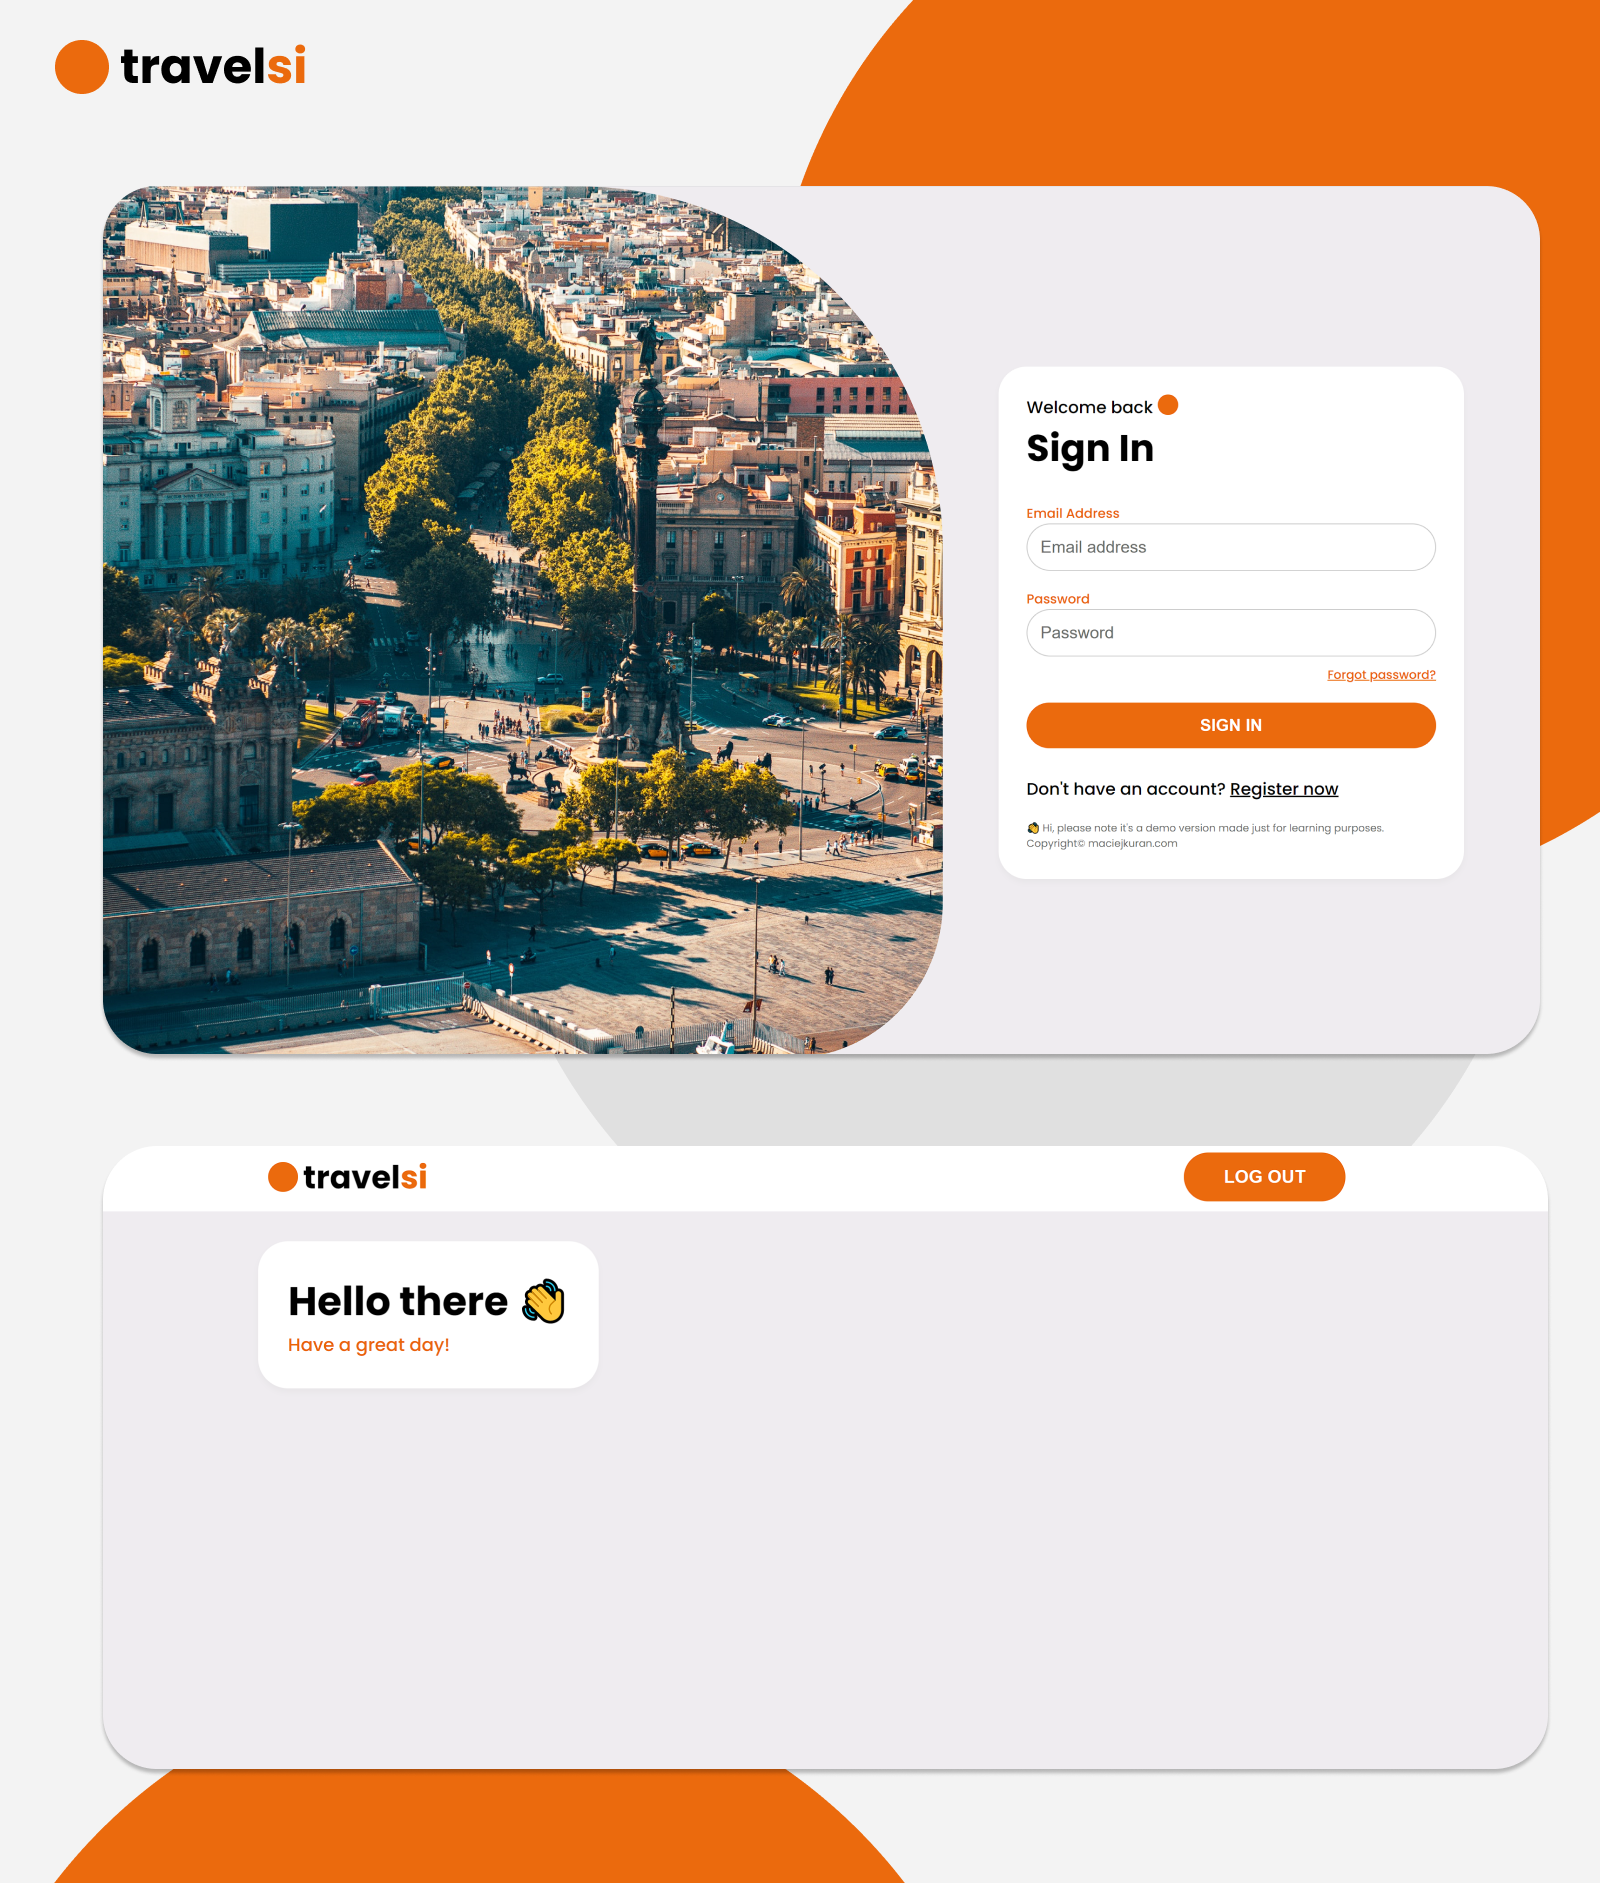
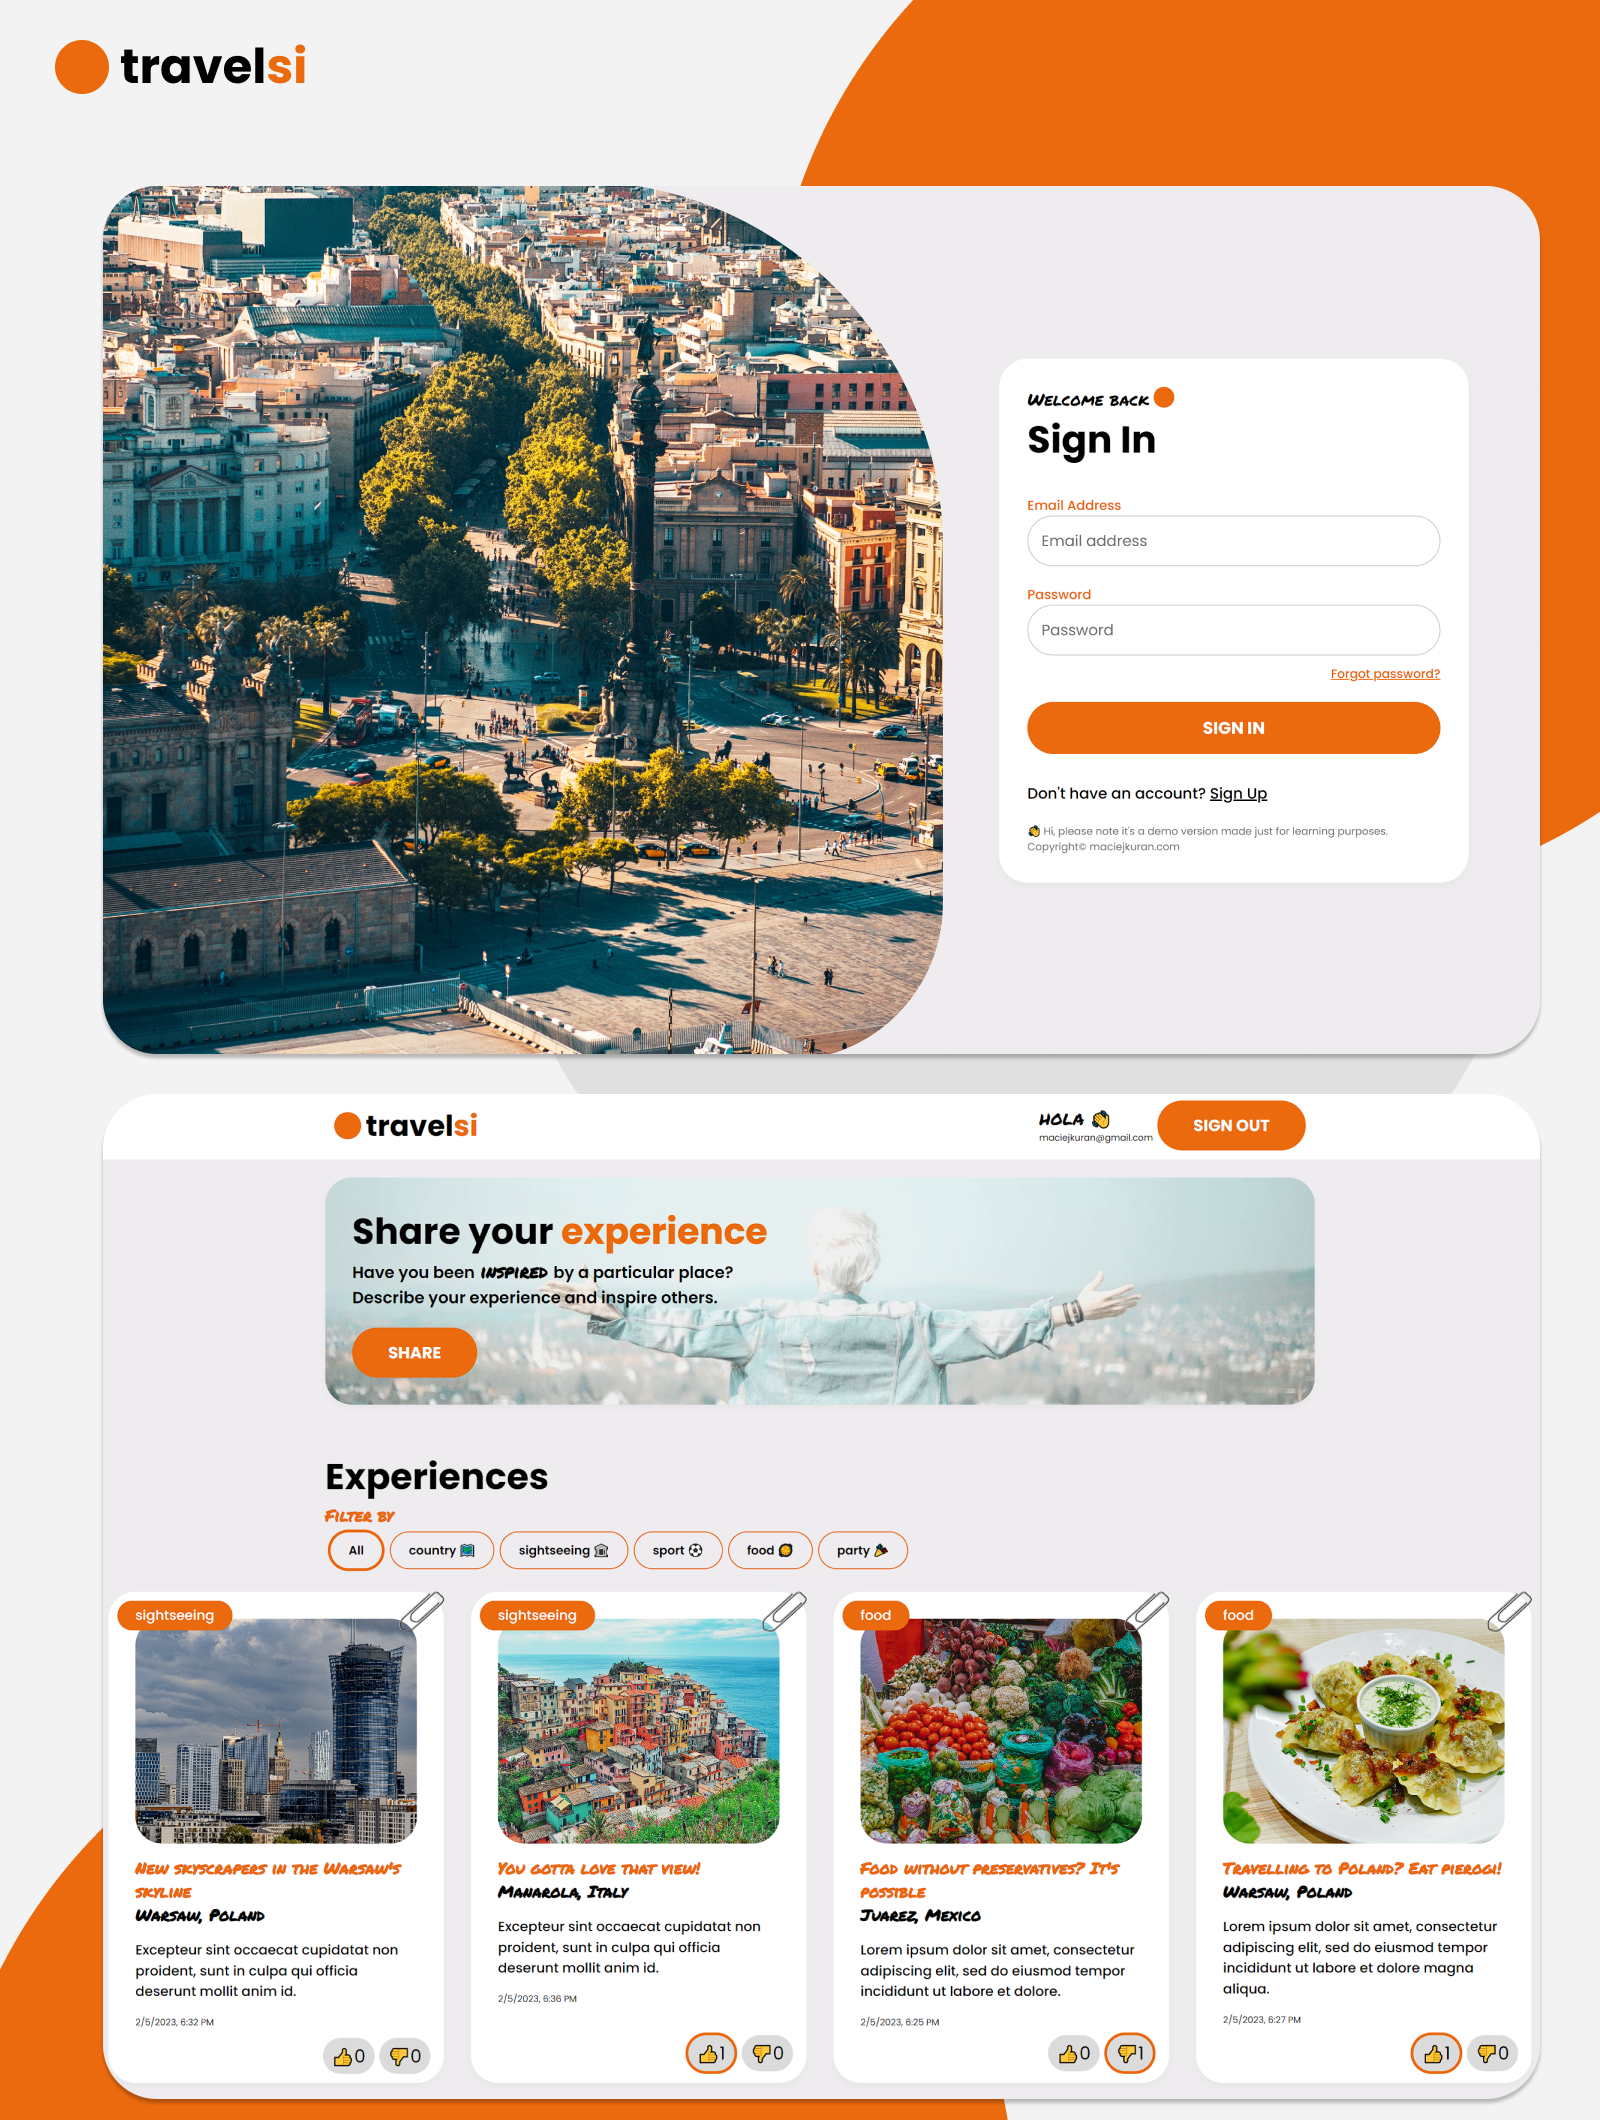
commit

diff --git a/README.md b/README.md
@@ -1,25 +1,56 @@
-# travelsi (react-redux exercise)
+# travelsi app
 
-✈🏝 [travelsi LIVE](https://travelsi-demo.netlify.app/)
+✈🏝 [travelsi LIVE APP](https://travelsi-demo.netlify.app/)
 
-I wanted to practice and cover quickly the basics of the Redux Toolkit with React. Therefore designing a new app and developing it (basically just the demo concept of the web app) within just a few hours was my other challenge.
+This project was about practising the Redux library, and being more precise `react-redux` & `@reduxjs/toolkit`. I have practiced most of the react concepts I have learned so far.
 
-There's nothing complex in this little tiny application - actually no features. At least for now. I may come back to this project later, as soon as find some time off.
+In addition, working with Firebase and the real-time data was a great experience.
 
-The goals of this little project:
+## What is travelsi ?
 
-- understanding how the Redux works in general;
-- understanding how to keep app-wide state maintainable and clean using `createSlice` (slicing states which are not directly related);
-- `configureStore` and merge all possible reducers as one `reducer`;
-- dispatching created actions with `useDispatch` hook;
-- accessing state values in components with `useSelector` hook;
+Travelsi is an app for sharing travel experiences. In order to join the community and be able to share the posts, you need to sign up first.
 
-What I managed to accomplish, is:
+## Functionalities
 
-- very simple state `true` or `false` for checking if a user `isAuthenticated`;
-- If `isAuthenticated`, a user can access `Account` component and its children. For now, `isAuthenticated` means to submit any random values when Sign In.
+- Sign up/Sign in/Sign out
+- Reset password
+- Add new post
+- Filter posts by tag & country
+- Add feelings (like/dislike post)
 
 ## UI
+
 - light, modern, responsive
 
 <p align="center"><img src="/src/assets/img/travelsi-ui.png"></p>
+
+## What I have achieved in this project so far 🎯
+
+#### Connecting project to Firebase
+
+This project required a backend so I connected it to the Firebase where I used the Realtime Database and Authentication features. Although my experience with Firebase is little so far, I think it is a powerful tool. Being only a frontend developer, with the help of documentation you can quickly create a basic backend for your application.
+
+- I use Firebase Authentication (basic email & password) to sign up/sign in/sign out users and reset account passwords when requested.
+- I use Realtime Database to store all users' posts.
+
+* Only authenticated users can read and write data to a certain path.
+
+#### Redux Toolkit
+
+- Understanding how to keep app-wide state maintainable and clean using `createSlice` (slicing states which are not directly related eg. `auth-slice`, `posts-slice`, `ui-slice`).
+- `configureStore` and merge all reducers as one `reducer`.
+- Dispatching created actions with `useDispatch` hook.
+- Accessing state values in components with `useSelector` hook.
+
+#### Building custom hooks
+
+I tried to make my custom hooks as generic as it's possible so I could flexibly reuse them. For example:
+
+- `useInput` hook checks if input `isTouched`, gets the input `value` or checks if `inputIsValid` based on `validationFunction`.
+
+#### Feedback/handling states - (input/form validity, loading, success/error for async tasks)
+
+Handling states and returning a user proper notifications was one of the key aspects of this project.
+
+- Complex input & form validation and returning notification if something `isNotValid` in a user-friendly way.
+- Handling notification states for async `fetch` requests (loading, success, error) & rendering in UI conditionally.
